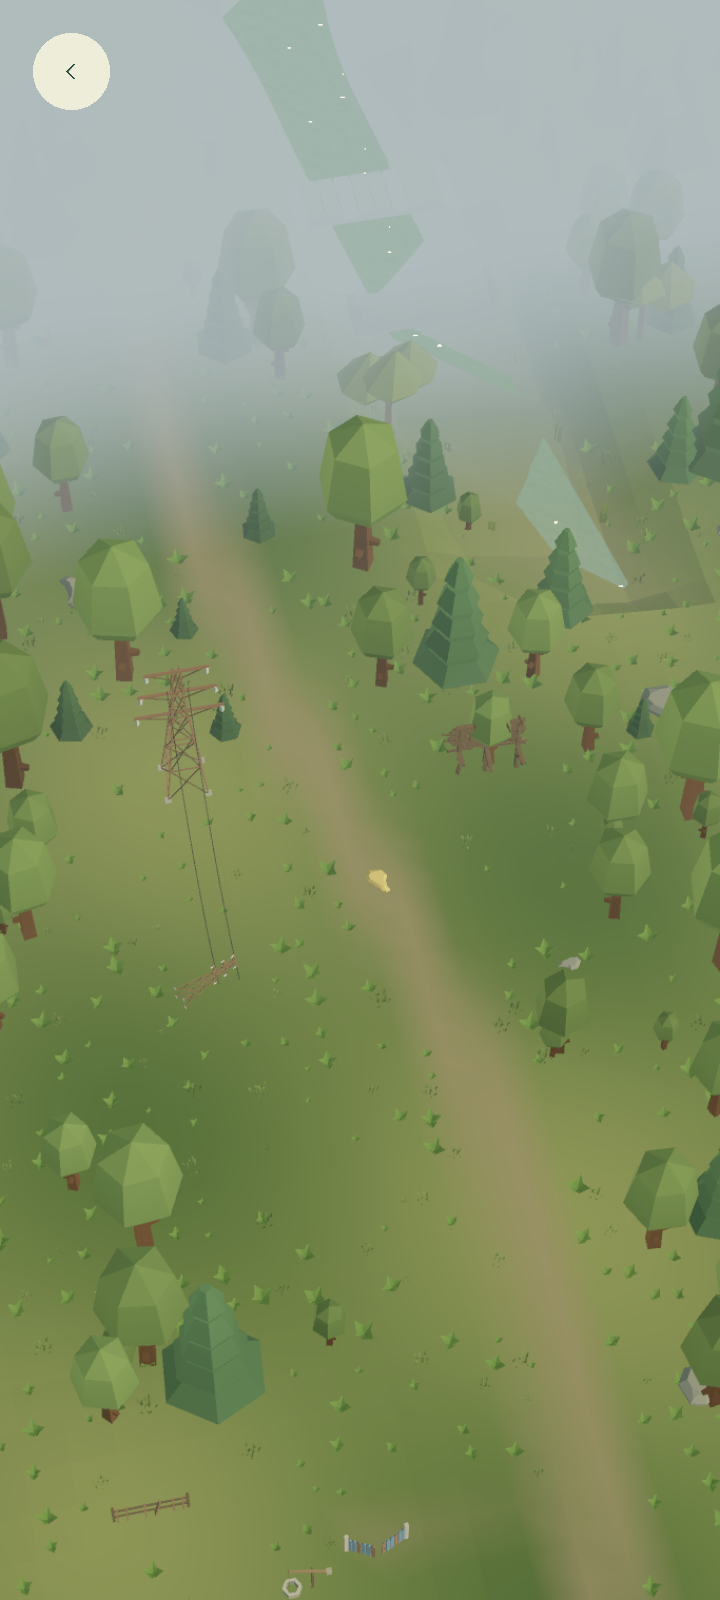
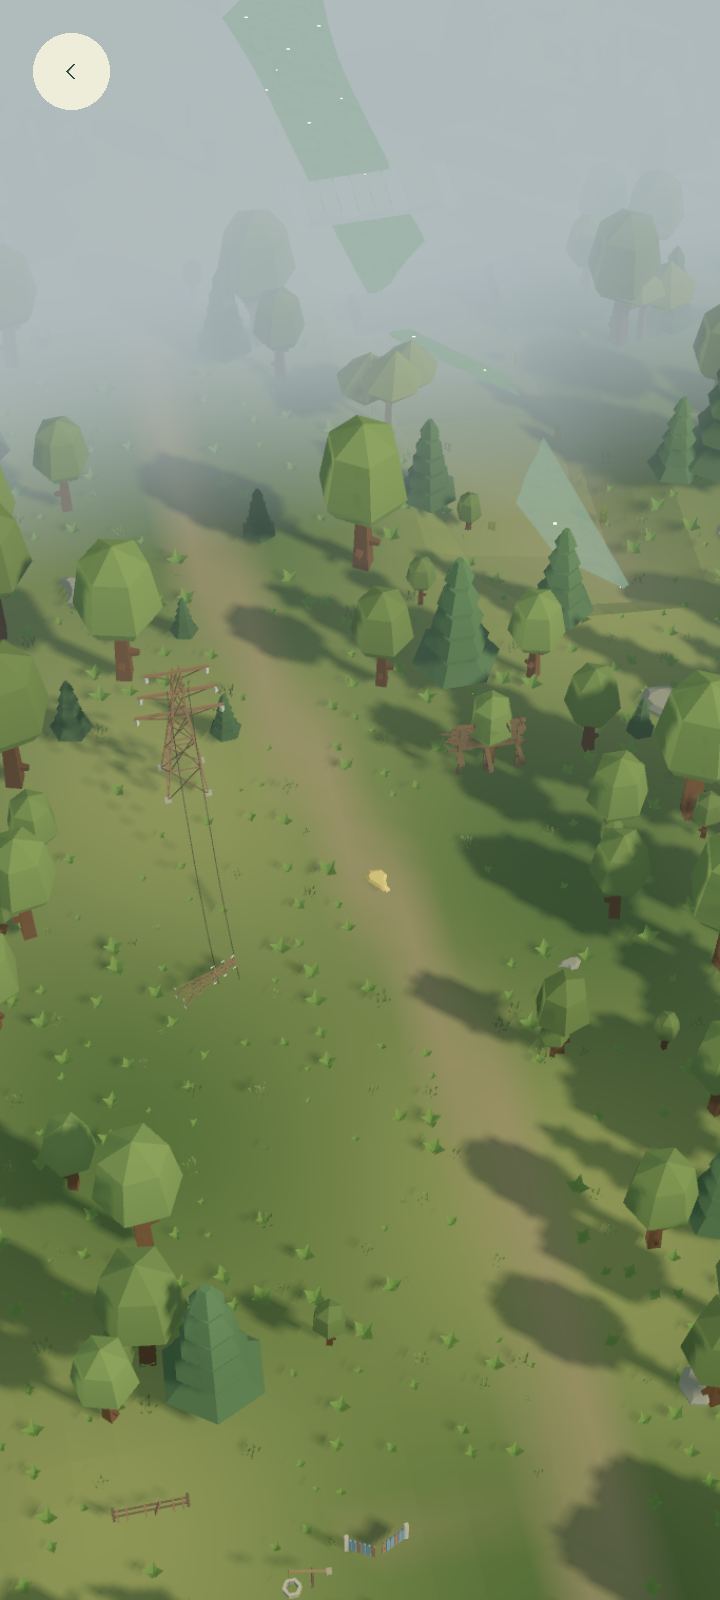
fix(roadmap): render isolated world sunlight in the native Game View

diff --git a/QuietCamp/Assets/QuietCamp/Tests/PlayMode/RoadmapWorldPlayModeTests.cs b/QuietCamp/Assets/QuietCamp/Tests/PlayMode/RoadmapWorldPlayModeTests.cs
@@ -99,7 +99,7 @@ namespace QuietCamp.Tests
             Assert.IsTrue(UnityEngine.Application.productName.StartsWith("QuietCampRoadmapQA"),"Run only with isolated synthetic QA saves");
             Assert.IsFalse(UnityEngine.Application.isBatchMode,"Native Game View and end-of-frame captures required");
             UnityEditor.ShaderUtil.allowAsyncCompilation=false;
-            // The QA copy shares imported artifacts; its private script mapper must resolve after domain reload.
+            // The QA copy keeps mutable import databases private; its private script mapper must resolve after domain reload.
             foreach(var path in new[]{"Assets/QuietCamp/Scripts/Presentation/QuietCampBootstrap.cs",
                 "Assets/QuietCamp/Scripts/Presentation/World/RoadmapWorldAsset.cs",
                 "Assets/QuietCamp/Scripts/Presentation/World/RoadmapWorldChunk.cs"})
@@ -108,6 +108,7 @@ namespace QuietCamp.Tests
                 Assert.NotNull(script);Assert.NotNull(script.GetClass(),"Native script mapping: "+path);
             }
             Directory.CreateDirectory(Output);Size(720,1600);
+            float menuShadowDistance=((UnityEngine.Rendering.Universal.UniversalRenderPipelineAsset)UnityEngine.Rendering.GraphicsSettings.currentRenderPipeline).shadowDistance;
             var save=new SaveAdapter();save.Load(out _);save.Progress=new ProgressSaveData();save.Session=new SessionSaveData();save.Album=new AlbumSaveData();
             // Fresh campaign progress after onboarding; the existing introductory tutorial has separate QA.
             var guide=new TutorialDirector(new TutorialSaveData(),false,new ProgressionService(),()=>true);guide.Skip();save.Progress.tutorial=guide.Save;
@@ -183,12 +184,16 @@ namespace QuietCamp.Tests
             float capturedSeconds=Time.realtimeSinceStartup-began;
             services.ReducedMotion=true;World().Seek(2);yield return Frames(10);
             // Warm all chunks once before leak comparison. No new map cameras, meshes or materials per visit.
+            Assert.AreEqual(World().WorldRoot.Find("Valley afternoon sun").GetComponent<Light>(),RenderSettings.sun,"World sunlight authority changed");
+            var pipeline=UnityEngine.Rendering.GraphicsSettings.currentRenderPipeline as UnityEngine.Rendering.Universal.UniversalRenderPipelineAsset;
+            float mapShadowDistance=pipeline.shadowDistance;
+            Assert.Greater(mapShadowDistance,32,"Aerial camera lost ground shadows");
             var counts=new List<int[]>();
             var materialVisits=new List<Dictionary<string,string>>();
             for(int visit=0;visit<4;visit++)
             {
                 Tap("back");yield return Frames(20);
-                Assert.IsFalse(World().IsOpen);Assert.IsNull(Object.FindObjectsByType<Camera>().FirstOrDefault(c=>c.name=="Roadmap perspective camera"));
+                Assert.IsFalse(World().IsOpen);Assert.AreEqual(menuShadowDistance,pipeline.shadowDistance,"Roadmap shadow range leaked into the menu");Assert.IsNull(Object.FindObjectsByType<Camera>().FirstOrDefault(c=>c.name=="Roadmap perspective camera"));
                 Tap("continue");yield return Ready("MainMenu");World().Seek(2);yield return Frames(25);
                 counts.Add(new[]{Object.FindObjectsByType<Camera>().Length,Resources.FindObjectsOfTypeAll<Material>().Length,Resources.FindObjectsOfTypeAll<Mesh>().Length});
                 materialVisits.Add(Resources.FindObjectsOfTypeAll<Material>().ToDictionary(m=>m.GetEntityId().ToString(),m=>m.name+" / "+m.shader.name+" / "+m.hideFlags));

diff --git a/QuietCamp/Assets/QuietCamp/Scripts/Presentation/World/RoadmapWorldPresenter.cs b/QuietCamp/Assets/QuietCamp/Scripts/Presentation/World/RoadmapWorldPresenter.cs
@@ -101,8 +101,8 @@ namespace QuietCamp.Presentation.World
             _camera.cullingMask=1<<Layer;_camera.orthographic=false;_camera.fieldOfView=_asset.fieldOfView;
             _camera.nearClipPlane=.05f;_camera.farClipPlane=130;_camera.clearFlags=CameraClearFlags.SolidColor;_camera.backgroundColor=_asset.sky;
             _camera.allowHDR=true;_camera.allowMSAA=true;
-            var data=_camera.GetUniversalAdditionalCameraData();data.renderPostProcessing=true;data.requiresDepthTexture=true;data.volumeLayerMask=1<<Layer;
-            var sunObject=new GameObject("Valley afternoon sun");sunObject.transform.SetParent(_root.transform,false);_sun=sunObject.AddComponent<Light>();
+            var data=_camera.GetUniversalAdditionalCameraData();data.renderShadows=true;data.renderPostProcessing=true;data.requiresDepthTexture=true;data.volumeLayerMask=1<<Layer;
+            var sunObject=new GameObject("Valley afternoon sun");sunObject.layer=Layer;sunObject.transform.SetParent(_root.transform,false);_sun=sunObject.AddComponent<Light>();
             _sun.type=LightType.Directional;_sun.transform.rotation=Quaternion.Euler(38,-48,0);_sun.color=new Color(1,.93f,.79f);_sun.intensity=1.12f;
             _sun.shadows=LightShadows.Soft;_sun.shadowBias=.025f;_sun.shadowNormalBias=.25f;_sun.cullingMask=1<<Layer;RenderSettings.sun=_sun;
             RenderSettings.ambientMode=AmbientMode.Custom;
